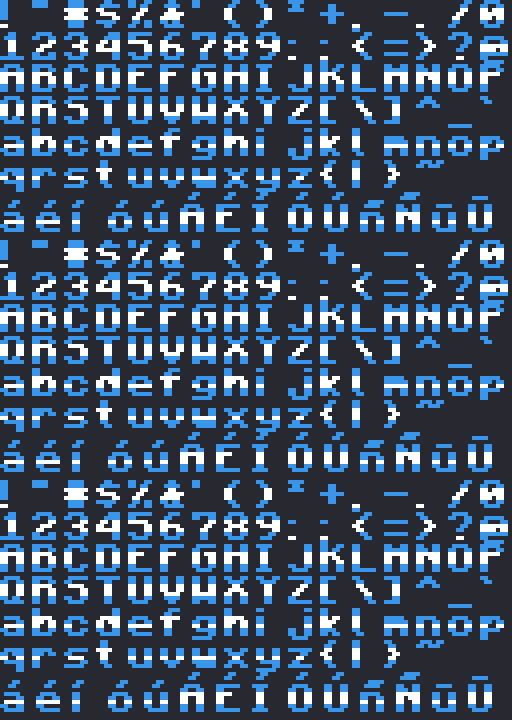
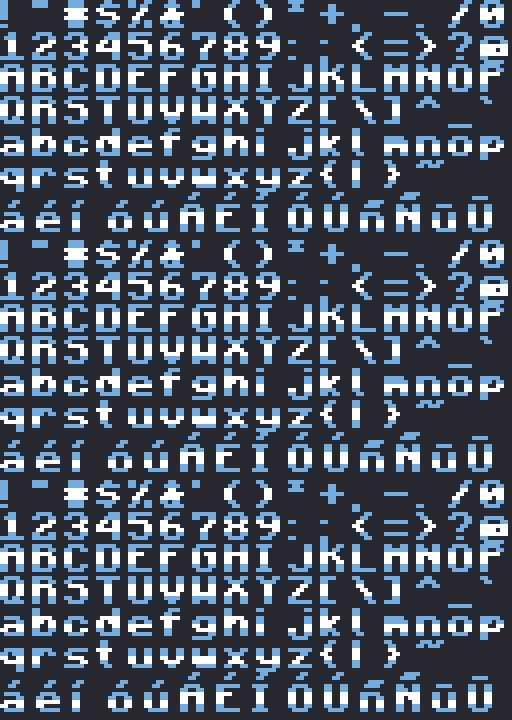
Pack: vuelve el celeste de la bandera y se engorda un poco la franja blanca

Changed region(s): [[0.0, 0.0, 1.0, 1.0], [0.2188, 0.9472, 0.25, 1.0], [0.5625, 0.0, 0.5938, 0.0306]]

diff --git a/fuente/bandera.py b/fuente/bandera.py
@@ -6,7 +6,7 @@ from PIL import Image
 
 BASE = os.path.dirname(os.path.abspath(__file__))
 ZIP = os.path.join(BASE, '..', 'java', '3y33-pack.zip')
-CELESTE = (58, 150, 235, 255)  # mas intenso que el #74ACDF oficial para que el blanco se note sobre el chat
+CELESTE = (116, 172, 223, 255)  # celeste de la bandera
 BLANCO = (255, 255, 255, 255)
 
 HOJA = Image.open(os.path.join(BASE, 'fuentes', 'ascii.png')).convert('RGBA')      # celdas de 8x8
@@ -39,10 +39,10 @@ def franjas(src, ancho, alto, base, fase=0):
     if vacia[base]:  # letra sin pixeles en la linea base: busca el bloque mas cercano
         top = base + 1
     n = base - top + 1
-    azul = max(1, round(n / 3)) if n >= 3 else 0
+    w = max(1, min(n - 2, int(n * 0.45 + 0.5))) if n >= 3 else 0   # franja blanca: ~45% del cuerpo (minimo 2 filas desde 4)
+    azul = (n - w + 1) // 2 if n >= 3 else 0                 # celeste de arriba (abajo queda el resto)
     out = Image.new('RGBA', (ancho, alto), (0, 0, 0, 0))
     px = out.load()
-    w = n - 2 * azul
     ini = min(max(top + azul + fase, top + 1), base - w + 1) if w > 0 else 0
     for y in range(alto):
         if w > 0 and ini <= y < ini + w:
